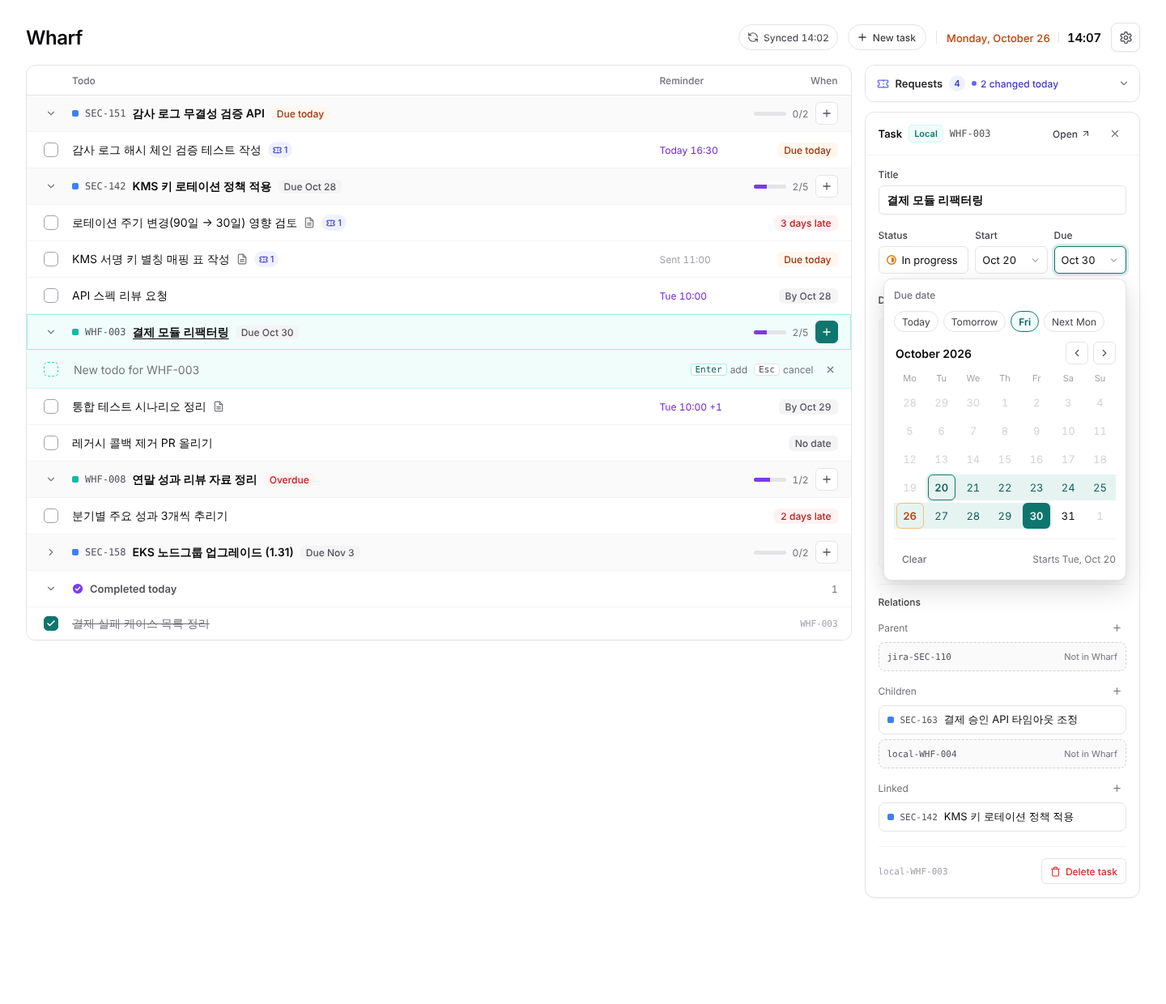
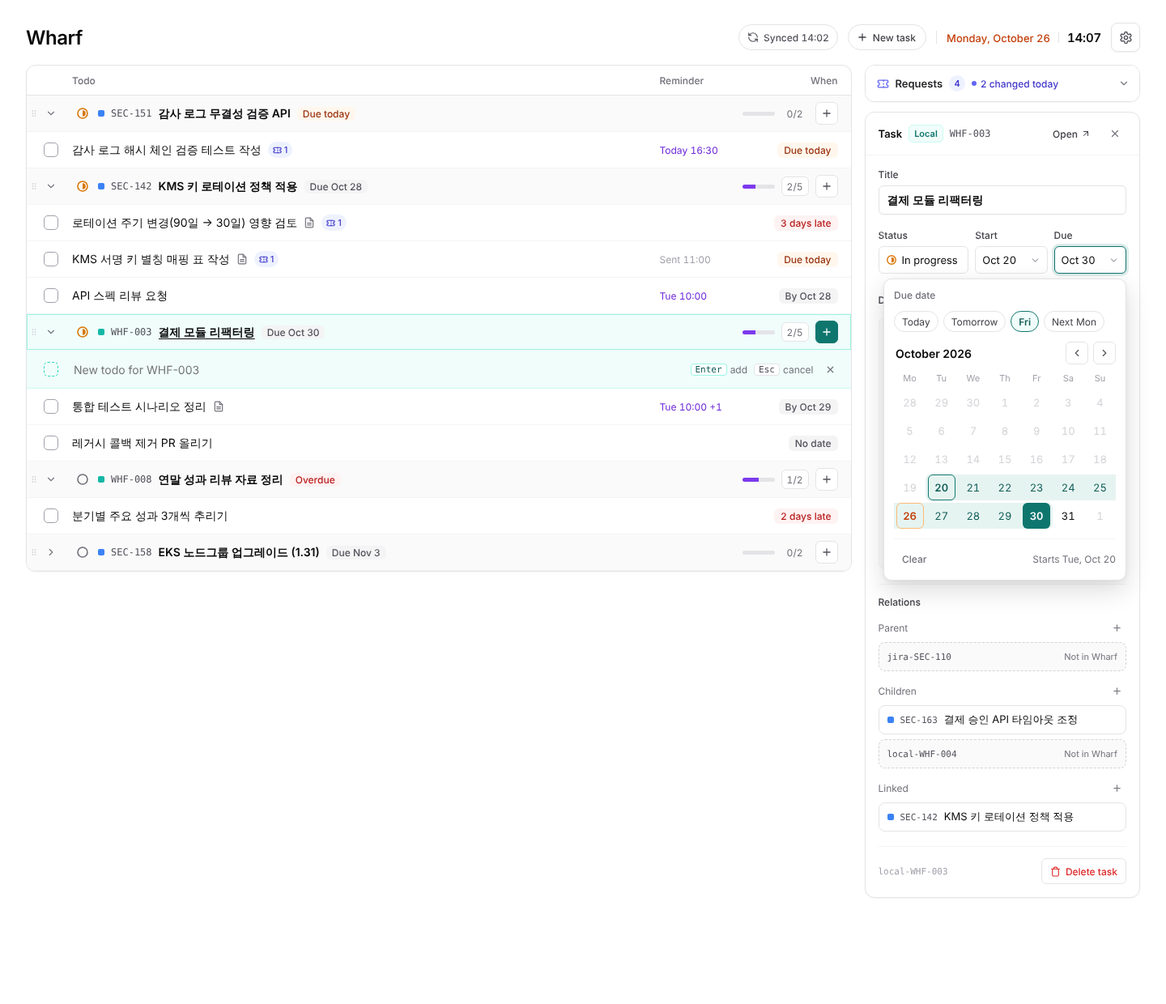
docs: update design

diff --git a/docs/design/boards/TodayFinal.dc.html b/docs/design/boards/TodayFinal.dc.html
@@ -61,20 +61,33 @@ a{color:#0f766e}a:hover{color:#115e59}
           </div>
 
           <sc-for list="{{groups}}" as="g" hint-placeholder-count="4">
-            <div style="display: grid; grid-template-columns: 28px minmax(0, 1fr) auto; align-items: center; gap: 12px; min-height: 44px; padding: 0 16px; border-bottom: 1px solid #f4f4f5; background: {{g.headBg}}; box-shadow: {{g.headRing}}">
+            <div draggable="true" onDragStart="{{g.dragStart}}" onDragOver="{{g.dragOver}}" onDrop="{{g.drop}}" onDragEnd="{{dragEnd}}" style="position: relative; display: grid; grid-template-columns: 28px minmax(0, 1fr) auto; align-items: center; gap: 12px; min-height: 44px; padding: 0 16px; border-bottom: 1px solid #f4f4f5; background: {{g.headBg}}; box-shadow: {{g.headRing}}; opacity: {{g.opacity}}">
+              <span title="Drag to reorder" aria-hidden="true" style="position: absolute; left: 3px; top: 50%; margin-top: -6px; width: 12px; height: 12px; display: flex; color: #c4c4cc; cursor: grab"><svg width="12" height="12" viewBox="0 0 24 24" fill="currentColor" aria-hidden="true"><circle cx="9" cy="6" r="1.6"></circle><circle cx="15" cy="6" r="1.6"></circle><circle cx="9" cy="12" r="1.6"></circle><circle cx="15" cy="12" r="1.6"></circle><circle cx="9" cy="18" r="1.6"></circle><circle cx="15" cy="18" r="1.6"></circle></svg></span>
               <button type="button" onClick="{{g.toggle}}" aria-expanded="{{g.open}}" aria-label="Collapse or expand {{g.key}}" style="width: 28px; height: 28px; display: flex; align-items: center; justify-content: center; padding: 0; border: none; border-radius: 6px; background: transparent; cursor: pointer">
                 <sc-if value="{{g.open}}" hint-placeholder-val="{{ true }}"><svg width="14" height="14" viewBox="0 0 24 24" fill="none" stroke="#71717a" stroke-width="2" stroke-linecap="round" aria-hidden="true"><path d="m6 9 6 6 6-6"></path></svg></sc-if>
                 <sc-if value="{{g.closed}}" hint-placeholder-val="{{ false }}"><svg width="14" height="14" viewBox="0 0 24 24" fill="none" stroke="#71717a" stroke-width="2" stroke-linecap="round" aria-hidden="true"><path d="m9 6 6 6-6 6"></path></svg></sc-if>
               </button>
-              <button type="button" onClick="{{g.selectTask}}" aria-pressed="{{g.taskSelected}}" title="Show task details" style="min-width: 0; height: 42px; display: flex; align-items: center; gap: 8px; padding: 0; border: none; background: transparent; font: inherit; text-align: left; cursor: pointer; color: #09090b">
+              <div style="min-width: 0; display: flex; align-items: center; gap: 6px">
+                <div style="position: relative; flex-shrink: 0">
+                  <button type="button" onClick="{{g.statusToggle}}" disabled="{{g.jira}}" aria-haspopup="menu" aria-expanded="{{g.statusOpen}}" aria-label="Status: {{g.statusLabel}}" title="{{g.statusTip}}" style="width: 26px; height: 26px; display: flex; align-items: center; justify-content: center; padding: 0; border: 1px solid {{g.statusBorder}}; border-radius: 6px; background: {{g.statusBg}}; cursor: {{g.statusCursor}}"><sc-if value="{{g.stTodo}}" hint-placeholder-val="{{ false }}"><svg width="16" height="16" viewBox="0 0 16 16" fill="none" aria-hidden="true" style="flex-shrink: 0"><circle cx="8" cy="8" r="6" stroke="#71717a" stroke-width="1.6"></circle></svg></sc-if><sc-if value="{{g.stProg}}" hint-placeholder-val="{{ true }}"><svg width="16" height="16" viewBox="0 0 16 16" fill="none" aria-hidden="true" style="flex-shrink: 0"><circle cx="8" cy="8" r="6" stroke="#d97706" stroke-width="1.6"></circle><path d="M8 4.2a3.8 3.8 0 0 1 0 7.6Z" fill="#d97706"></path></svg></sc-if><sc-if value="{{g.stDone}}" hint-placeholder-val="{{ false }}"><svg width="16" height="16" viewBox="0 0 16 16" fill="none" aria-hidden="true" style="flex-shrink: 0"><circle cx="8" cy="8" r="7" fill="#7c3aed"></circle><path d="m5 8.2 2 2 4-4.2" stroke="#ffffff" stroke-width="1.6" stroke-linecap="round" stroke-linejoin="round"></path></svg></sc-if><sc-if value="{{g.stCanceled}}" hint-placeholder-val="{{ false }}"><svg width="16" height="16" viewBox="0 0 16 16" fill="none" aria-hidden="true" style="flex-shrink: 0"><circle cx="8" cy="8" r="7" fill="#a1a1aa"></circle><path d="m5.6 5.6 4.8 4.8M10.4 5.6l-4.8 4.8" stroke="#ffffff" stroke-width="1.6" stroke-linecap="round"></path></svg></sc-if></button>
+                  <sc-if value="{{g.statusOpen}}" hint-placeholder-val="{{ false }}">
+                    <div role="menu" aria-label="Task status" style="position: absolute; top: 30px; left: 0; z-index: 45; width: 176px; box-sizing: border-box; padding: 4px; background: #ffffff; border: 1px solid #e4e4e7; border-radius: 8px; box-shadow: 0 12px 32px rgba(0,0,0,0.14), 0 2px 6px rgba(0,0,0,0.06); display: flex; flex-direction: column; gap: 1px">
+                      <sc-for list="{{g.statusItems}}" as="si" hint-placeholder-count="4">
+                        <button type="button" role="menuitemradio" aria-checked="{{si.current}}" onClick="{{si.pick}}" style="height: 32px; display: flex; align-items: center; gap: 8px; padding: 0 8px; border: none; border-radius: 6px; background: {{si.bg}}; font: inherit; font-size: 13px; color: #09090b; text-align: left; cursor: pointer"><sc-if value="{{si.stTodo}}" hint-placeholder-val="{{ false }}"><svg width="14" height="14" viewBox="0 0 16 16" fill="none" aria-hidden="true" style="flex-shrink: 0"><circle cx="8" cy="8" r="6" stroke="#71717a" stroke-width="1.6"></circle></svg></sc-if><sc-if value="{{si.stProg}}" hint-placeholder-val="{{ true }}"><svg width="14" height="14" viewBox="0 0 16 16" fill="none" aria-hidden="true" style="flex-shrink: 0"><circle cx="8" cy="8" r="6" stroke="#d97706" stroke-width="1.6"></circle><path d="M8 4.2a3.8 3.8 0 0 1 0 7.6Z" fill="#d97706"></path></svg></sc-if><sc-if value="{{si.stDone}}" hint-placeholder-val="{{ false }}"><svg width="14" height="14" viewBox="0 0 16 16" fill="none" aria-hidden="true" style="flex-shrink: 0"><circle cx="8" cy="8" r="7" fill="#7c3aed"></circle><path d="m5 8.2 2 2 4-4.2" stroke="#ffffff" stroke-width="1.6" stroke-linecap="round" stroke-linejoin="round"></path></svg></sc-if><sc-if value="{{si.stCanceled}}" hint-placeholder-val="{{ false }}"><svg width="14" height="14" viewBox="0 0 16 16" fill="none" aria-hidden="true" style="flex-shrink: 0"><circle cx="8" cy="8" r="7" fill="#a1a1aa"></circle><path d="m5.6 5.6 4.8 4.8M10.4 5.6l-4.8 4.8" stroke="#ffffff" stroke-width="1.6" stroke-linecap="round"></path></svg></sc-if><span style="flex: 1">{{si.label}}</span><sc-if value="{{si.current}}" hint-placeholder-val="{{ false }}"><span style="display: flex; color: #0f766e"><svg width="12" height="12" viewBox="0 0 24 24" fill="none" stroke="currentColor" stroke-width="3" stroke-linecap="round" stroke-linejoin="round" aria-hidden="true"><path d="M20 6 9 17l-5-5"></path></svg></span></sc-if></button>
+                      </sc-for>
+                    </div>
+                  </sc-if>
+                </div>
+                <button type="button" onClick="{{g.selectTask}}" aria-pressed="{{g.taskSelected}}" title="Show task details" style="flex: 1; min-width: 0; height: 42px; display: flex; align-items: center; gap: 8px; padding: 0; border: none; background: transparent; font: inherit; text-align: left; cursor: pointer; color: #09090b">
                 <span style="width: 8px; height: 8px; flex-shrink: 0; border-radius: 2px; background: {{g.originColor}}"></span>
                 <span style="font-family: 'Geist Mono', ui-monospace, monospace; font-size: 12px; color: #52525b; flex-shrink: 0">{{g.key}}</span>
-                <span style="min-width: 0; font-size: 14px; font-weight: 600; white-space: nowrap; overflow: hidden; text-overflow: ellipsis; text-decoration: {{g.titleDeco}}; text-underline-offset: 3px">{{g.title}}</span>
+                <span style="min-width: 0; font-size: 14px; font-weight: 600; white-space: nowrap; overflow: hidden; text-overflow: ellipsis; color: {{g.titleColor}}; text-decoration: {{g.titleDeco}}; text-underline-offset: 3px">{{g.title}}</span>
                 <span style="flex-shrink: 0; font-size: 12px; font-weight: 500; color: {{g.dueColor}}; background: {{g.dueBg}}; border-radius: 6px; padding: 1px 7px">{{g.due}}</span>
               </button>
+              </div>
               <span style="display: flex; align-items: center; gap: 8px; font-size: 12px; color: #71717a; font-variant-numeric: tabular-nums">
                 <span style="width: 40px; height: 5px; border-radius: 9999px; background: #e4e4e7; overflow: hidden; display: flex"><span style="width: {{g.pct}}%; background: #7c3aed"></span></span>
-                <span>{{g.progress}}</span>
+                <button type="button" onClick="{{g.toggleDone}}" aria-pressed="{{g.doneOpen}}" title="{{g.doneTip}}" style="height: 24px; display: flex; align-items: center; gap: 4px; padding: 0 6px; border: 1px solid {{g.doneBorder}}; border-radius: 6px; background: {{g.doneBg}}; font: inherit; font-size: 12px; color: {{g.doneColor}}; font-variant-numeric: tabular-nums; cursor: {{g.doneCursor}}">{{g.progress}}</button>
                 <button type="button" onClick="{{g.add}}" aria-label="Add todo to {{g.key}}" title="Add todo to {{g.key}}" style="width: 28px; height: 28px; display: flex; align-items: center; justify-content: center; padding: 0; border: 1px solid {{g.addBorder}}; border-radius: 6px; background: {{g.addBg}}; color: {{g.addColor}}; cursor: pointer">
                   <svg width="14" height="14" viewBox="0 0 24 24" fill="none" stroke="currentColor" stroke-width="2.2" stroke-linecap="round" aria-hidden="true"><path d="M12 5v14"></path><path d="M5 12h14"></path></svg>
                 </button>
@@ -96,12 +109,12 @@ a{color:#0f766e}a:hover{color:#115e59}
                 </div>
               </sc-if>
               <sc-for list="{{g.items}}" as="t" hint-placeholder-count="2">
-                <div style="display: grid; grid-template-columns: 28px minmax(0, 1fr) 104px 104px; align-items: center; gap: 12px; min-height: 44px; padding: 0 16px; border-bottom: 1px solid #f4f4f5; background: {{t.rowBg}}; box-shadow: {{t.rowRing}}">
+                <div style="display: grid; grid-template-columns: 28px minmax(0, 1fr) 104px 104px; align-items: center; gap: 12px; min-height: 44px; padding: 0 16px; border-bottom: 1px solid #f4f4f5; background: {{t.rowBg}}; box-shadow: {{t.rowRing}}; opacity: {{t.rowOpacity}}">
                   <span style="display: flex; justify-content: center">
-                    <button type="button" role="checkbox" aria-checked="false" aria-label="{{t.text}}" onClick="{{t.toggle}}" style="width: 18px; height: 18px; padding: 0; border-radius: 5px; border: 1.5px solid #a1a1aa; background: #ffffff; cursor: pointer"></button>
+                    <button type="button" role="checkbox" aria-checked="{{t.checked}}" aria-label="{{t.text}}" onClick="{{t.toggle}}" style="width: 18px; height: 18px; display: flex; align-items: center; justify-content: center; padding: 0; border-radius: 5px; border: 1.5px solid {{t.boxBorder}}; background: {{t.boxBg}}; color: #ffffff; cursor: pointer"><sc-if value="{{t.checked}}" hint-placeholder-val="{{ false }}"><svg width="12" height="12" viewBox="0 0 24 24" fill="none" stroke="currentColor" stroke-width="3" stroke-linecap="round" stroke-linejoin="round" aria-hidden="true"><path d="M20 6 9 17l-5-5"></path></svg></sc-if></button>
                   </span>
-                  <button type="button" onClick="{{t.select}}" aria-pressed="{{t.selected}}" style="min-width: 0; height: 42px; display: flex; align-items: center; gap: 8px; padding: 0; border: none; background: transparent; font: inherit; font-size: 14px; font-weight: {{t.weight}}; color: #09090b; text-align: left; cursor: pointer">
-                    <span style="min-width: 0; white-space: nowrap; overflow: hidden; text-overflow: ellipsis">{{t.text}}</span>
+                  <button type="button" onClick="{{t.select}}" aria-pressed="{{t.selected}}" style="min-width: 0; height: 42px; display: flex; align-items: center; gap: 8px; padding: 0; border: none; background: transparent; font: inherit; font-size: 14px; font-weight: {{t.weight}}; color: {{t.textColor}}; text-align: left; cursor: pointer">
+                    <span style="min-width: 0; white-space: nowrap; overflow: hidden; text-overflow: ellipsis; text-decoration: {{t.deco}}">{{t.text}}</span>
                     <sc-if value="{{t.hasNote}}" hint-placeholder-val="{{ false }}">
                       <svg width="14" height="14" viewBox="0 0 24 24" fill="none" stroke="#71717a" stroke-width="2" stroke-linecap="round" stroke-linejoin="round" role="img" aria-label="Has a note" style="flex-shrink: 0"><path d="M14 2H6a2 2 0 0 0-2 2v16a2 2 0 0 0 2 2h12a2 2 0 0 0 2-2V8z"></path><path d="M14 2v6h6"></path><path d="M16 13H8"></path><path d="M16 17H8"></path></svg>
                     </sc-if>
@@ -117,33 +130,14 @@ a{color:#0f766e}a:hover{color:#115e59}
             </sc-if>
           </sc-for>
 
+          <sc-if value="{{dragging}}" hint-placeholder-val="{{ false }}">
+            <div onDragOver="{{dragOverEnd}}" onDrop="{{dropEnd}}" style="height: 36px; margin: 6px 16px; box-sizing: border-box; display: flex; align-items: center; justify-content: center; border: 1px dashed {{endBorder}}; border-radius: 8px; background: {{endBg}}; font-size: 12px; color: #71717a">Drop here to move to the end</div>
+          </sc-if>
 
           <sc-if value="{{empty}}" hint-placeholder-val="{{ false }}">
             <p style="margin: 0; padding: 40px 16px; text-align: center; font-size: 14px; color: #71717a">All clear for this filter.</p>
           </sc-if>
 
-          <button type="button" onClick="{{toggleCompleted}}" aria-expanded="{{showCompleted}}" style="width: 100%; display: grid; grid-template-columns: 28px minmax(0, 1fr) auto; align-items: center; gap: 12px; min-height: 44px; padding: 0 16px; border: none; background: #ffffff; font: inherit; text-align: left; cursor: pointer; color: #52525b">
-            <span style="display: flex; justify-content: center">
-              <sc-if value="{{showCompleted}}" hint-placeholder-val="{{ false }}"><svg width="14" height="14" viewBox="0 0 24 24" fill="none" stroke="#71717a" stroke-width="2" stroke-linecap="round" aria-hidden="true"><path d="m6 9 6 6 6-6"></path></svg></sc-if>
-              <sc-if value="{{hideCompleted}}" hint-placeholder-val="{{ true }}"><svg width="14" height="14" viewBox="0 0 24 24" fill="none" stroke="#71717a" stroke-width="2" stroke-linecap="round" aria-hidden="true"><path d="m9 6 6 6-6 6"></path></svg></sc-if>
-            </span>
-            <span style="display: flex; align-items: center; gap: 8px; font-size: 13px; font-weight: 600">
-              <svg width="14" height="14" viewBox="0 0 16 16" fill="none" aria-hidden="true"><circle cx="8" cy="8" r="7" fill="#7c3aed"></circle><path d="m5 8.2 2 2 4-4.2" stroke="#ffffff" stroke-width="1.6" stroke-linecap="round" stroke-linejoin="round"></path></svg>
-              Completed today
-            </span>
-            <span style="font-size: 12px; color: #71717a; font-variant-numeric: tabular-nums">{{completedCount}}</span>
-          </button>
-          <sc-if value="{{showCompleted}}" hint-placeholder-val="{{ false }}">
-            <sc-for list="{{completed}}" as="t" hint-placeholder-count="1">
-              <div style="display: grid; grid-template-columns: 28px minmax(0, 1fr) auto; align-items: center; gap: 12px; min-height: 40px; padding: 0 16px; border-top: 1px solid #f4f4f5; background: {{t.rowBg}}">
-                <span style="display: flex; justify-content: center">
-                  <button type="button" role="checkbox" aria-checked="true" aria-label="{{t.text}}" onClick="{{t.toggle}}" style="width: 18px; height: 18px; display: flex; align-items: center; justify-content: center; padding: 0; border-radius: 5px; border: 1.5px solid #0f766e; background: #0f766e; cursor: pointer"><svg width="12" height="12" viewBox="0 0 24 24" fill="none" stroke="#ffffff" stroke-width="3.2" stroke-linecap="round" stroke-linejoin="round" aria-hidden="true"><path d="M20 6 9 17l-5-5"></path></svg></button>
-                </span>
-                <button type="button" onClick="{{t.select}}" style="min-width: 0; height: 38px; padding: 0; border: none; background: transparent; font: inherit; font-size: 14px; color: #71717a; text-decoration: line-through; text-align: left; cursor: pointer; white-space: nowrap; overflow: hidden; text-overflow: ellipsis">{{t.text}}</button>
-                <span style="font-family: 'Geist Mono', ui-monospace, monospace; font-size: 11px; color: #a1a1aa">{{t.key}}</span>
-              </div>
-            </sc-for>
-          </sc-if>
         </div>
       </section>
 
@@ -339,6 +333,7 @@ a{color:#0f766e}a:hover{color:#115e59}
                 <button type="button" disabled="{{ti.jira}}" style="height: 34px; box-sizing: border-box; display: flex; align-items: center; gap: 6px; padding: 0 8px; border: 1px solid {{ti.fieldBorder}}; border-radius: 6px; background: {{ti.fieldBg}}; font: inherit; font-size: 13px; color: #09090b; white-space: nowrap; overflow: hidden; cursor: {{ti.cursor}}">
                   <sc-if value="{{ti.prog}}" hint-placeholder-val="{{ true }}"><svg width="14" height="14" viewBox="0 0 16 16" fill="none" aria-hidden="true" style="flex-shrink: 0"><circle cx="8" cy="8" r="6" stroke="#d97706" stroke-width="1.6"></circle><path d="M8 4.2a3.8 3.8 0 0 1 0 7.6Z" fill="#d97706"></path></svg></sc-if>
                   <sc-if value="{{ti.todo}}" hint-placeholder-val="{{ false }}"><svg width="14" height="14" viewBox="0 0 16 16" fill="none" aria-hidden="true" style="flex-shrink: 0"><circle cx="8" cy="8" r="6" stroke="#71717a" stroke-width="1.6"></circle></svg></sc-if>
+                  <sc-if value="{{ti.done}}" hint-placeholder-val="{{ false }}"><svg width="14" height="14" viewBox="0 0 16 16" fill="none" aria-hidden="true" style="flex-shrink: 0"><circle cx="8" cy="8" r="7" fill="#7c3aed"></circle><path d="m5 8.2 2 2 4-4.2" stroke="#ffffff" stroke-width="1.6" stroke-linecap="round" stroke-linejoin="round"></path></svg></sc-if><sc-if value="{{ti.canceled}}" hint-placeholder-val="{{ false }}"><svg width="14" height="14" viewBox="0 0 16 16" fill="none" aria-hidden="true" style="flex-shrink: 0"><circle cx="8" cy="8" r="7" fill="#a1a1aa"></circle><path d="m5.6 5.6 4.8 4.8M10.4 5.6l-4.8 4.8" stroke="#ffffff" stroke-width="1.6" stroke-linecap="round"></path></svg></sc-if>
                   {{ti.status}}
                 </button>
               </div>
@@ -542,6 +537,9 @@ class Component extends DCLogic {
     links: { 'CIS-12345': [21, 22], 'CIS-12388': [41], 'CIS-12402': [51], 'CIS-12291': [] },
     // Quick actions in the header: Atlassian Cloud sync and new local task
     sync: 'idle', lastSync: '14:02', creatingTask: false, newTitle: '', newTasks: [],
+    // Task status overrides (local only), task order (Wharf-only, drag and drop), done todos visibility
+    tstatus: {}, statusMenu: null, taskOrder: null, dragKey: null, overKey: null,
+    doneOpen: {}, recentDone: {},
     // Date / reminder edits (popover pickers). pop: 'start' | 'end' | 'tstart' | 'tdue' | 'rem-new' | 'rem-<i>'
     dates: {}, tdates: {}, rems: {}, pop: null, pkMonth: 0, remDay: null, remTime: '09:00' };
 
@@ -737,7 +735,12 @@ class Component extends DCLogic {
       o.remTip = sent.length ? sent.length + ' sent' + (up.length ? ', ' + up.length + ' upcoming' : '') : '';
       return o;
     }
-    function metaOf(key) { return Object.assign({}, META[key], (self.state.tdates || {})[key] || {}); }
+    function metaOf(key) { var m = Object.assign({}, META[key], (self.state.tdates || {})[key] || {}); var st = (self.state.tstatus || {})[key]; if (st) m.st = st; return m; }
+    var ST = { todo: 'Todo', prog: 'In progress', done: 'Done', canceled: 'Canceled' };
+    function stFlags(st) { return { stTodo: st === 'todo', stProg: st === 'prog', stDone: st === 'done', stCanceled: st === 'canceled' }; }
+    // When a todo was completed (design data; Today = Oct 26)
+    var DONE_AT = { 24: 20, 25: 22, 11: 22, 12: 26, 32: 21 };
+    function doneLabel(id) { var d = DONE_AT[id]; return d === TODAY || d == null ? 'Done today' : 'Done ' + dateText(d); }
     function dueInfo(d) {
       if (d == null) return { label: 'No due date', tone: null };
       if (d < TODAY) return { label: 'Overdue', tone: 'over' };
@@ -751,7 +754,12 @@ class Component extends DCLogic {
       self.setState(Object.assign({ pop: on ? null : name, pkMonth: month || 0 }, extra || {}));
     }; }
     function closePop() { self.setState({ pop: null }); }
-    function toggleFn(id) { return function () { var n = Object.assign({}, self.state.done); n[id] = !self.state.done[id]; self.setState({ done: n }); }; }
+    // Checking a todo keeps it in place (struck through) for this session instead of making it jump away.
+    function toggleFn(id) { return function () {
+      var n = Object.assign({}, self.state.done), r = Object.assign({}, self.state.recentDone);
+      n[id] = !self.state.done[id]; if (n[id]) r[id] = true; else delete r[id];
+      self.setState({ done: n, recentDone: r });
+    }; }
     function selectFn(id) { return function () { self.setState({ sel: id, selKey: null, selReq: null, picker: null, pop: null }); }; }
     function selectTaskFn(key) { return function () { self.setState({ selKey: key, sel: null, selReq: null, picker: null, pop: null }); }; }
     function selectReqFn(key) { return function () { self.setState({ selReq: key, sel: null, selKey: null, picker: null, pop: null }); }; }
@@ -825,6 +833,18 @@ class Component extends DCLogic {
         pick: function () { self.setState({ tab: tb.id }); } };
     });
 
+    var order = (s.taskOrder || []).slice();
+    TASKS.forEach(function (k) { if (order.indexOf(k.key) < 0) order.push(k.key); });
+    TASKS.sort(function (a, b) { return order.indexOf(a.key) - order.indexOf(b.key); });
+    function moveTask(from, to) {
+      if (!from || from === to) { self.setState({ dragKey: null, overKey: null }); return; }
+      var o = order.filter(function (x) { return x !== from; });
+      var at = to == null ? o.length : o.indexOf(to);
+      o.splice(at, 0, from);
+      self.setState({ taskOrder: o, dragKey: null, overKey: null });
+    }
+    var recent = s.recentDone || {}, doneOpenMap = s.doneOpen || {}, doneTotal = 0;
+    function doneVisible(key) { return !!doneOpenMap[key]; }
     var chips = [], groups = [], completed = [], selTask = null, selTodo = null;
     TASKS.forEach(function (k) {
       var dc = 0, openToday = 0, hasOver = false;
@@ -842,12 +862,27 @@ class Component extends DCLogic {
         pick: function () { self.setState({ task: on ? null : k.key }); }
       });
       if (pickedTask && pickedTask !== k.key) return;
-      var items = k.todos.filter(function (t) {
-        if (!t.today || done[t.id]) return false;
+      var dv = doneVisible(k.key);
+      k.todos.forEach(function (t) { if (done[t.id]) doneTotal++; });
+      var openList = k.todos.filter(function (t) {
+        if (done[t.id]) return !!recent[t.id];
+        if (!t.today) return false;
         return tab === 'all' || eff(t).kind === tab;
-      }).map(function (t0) {
-        var t = eff(t0), isSel = s.sel === t.id;
+      });
+      var doneList = dv ? k.todos.filter(function (t) { return done[t.id] && !recent[t.id]; }) : [];
+      var items = openList.concat(doneList).map(function (t0) {
+        var t = eff(t0), isSel = s.sel === t.id, c = !!done[t.id];
+        if (c) return {
+          text: t.text, checked: true, boxBorder: '#0f766e', boxBg: '#0f766e', textColor: '#71717a', deco: 'line-through',
+          when: doneLabel(t.id), whenColor: DONE_AT[t.id] === TODAY || recent[t.id] ? '#6d28d9' : '#71717a', whenBg: DONE_AT[t.id] === TODAY || recent[t.id] ? '#f5f3ff' : '#f4f4f5',
+          rem: '', remColor: '#a1a1aa', remTip: '', selected: isSel, weight: isSel ? '600' : '400', hasNote: !!t.note,
+          hasReqs: reqsForTodo(t.id).length > 0, reqCount: reqsForTodo(t.id).length,
+          reqTitle: reqsForTodo(t.id).map(function (r) { return r.key + ' ' + r.title; }).join('\n'),
+          rowBg: isSel ? '#f0fdfa' : '#ffffff', rowRing: isSel ? 'inset 0 0 0 1px #99f6e4' : 'none',
+          toggle: toggleFn(t.id), select: selectFn(t.id), rowOpacity: s.dragKey === k.key ? '0.45' : '1'
+        };
         return {
+          checked: false, boxBorder: '#a1a1aa', boxBg: '#ffffff', textColor: '#09090b', deco: 'none', rowOpacity: s.dragKey === k.key ? '0.45' : '1',
           text: t.text, when: whenOf(t), whenColor: TONE[t.kind].c, whenBg: TONE[t.kind].bg, rem: t.rem || '', remColor: t.remColor, remTip: t.remTip,
           selected: isSel, weight: isSel ? '600' : '400', hasNote: !!t.note,
           hasReqs: reqsForTodo(t.id).length > 0, reqCount: reqsForTodo(t.id).length,
@@ -859,9 +894,29 @@ class Component extends DCLogic {
       if (!items.length && !k.fresh) return;
       var isOpen = !closed[k.key];
       var isTaskSel = s.selKey === k.key;
-      var gdue = dueInfo(metaOf(k.key).due);
-      groups.push({
-        taskSelected: isTaskSel, headBg: isTaskSel ? '#f0fdfa' : '#fafafa', headRing: isTaskSel ? 'inset 0 0 0 1px #99f6e4' : 'none',
+      var gm = metaOf(k.key), gdue = dueInfo(gm.due), isJira = k.origin === 'jira', gst = gm.st || 'todo';
+      var dropHere = s.dragKey && s.dragKey !== k.key && s.overKey === k.key, dragged = s.dragKey === k.key;
+      var ring = isTaskSel ? 'inset 0 0 0 1px #99f6e4' : 'none';
+      if (dropHere) ring = 'inset 0 2px 0 #0f766e' + (isTaskSel ? ', inset 0 0 0 1px #99f6e4' : '');
+      var menuOpen = !isJira && s.statusMenu === k.key, ndone = k.todos.filter(function (t) { return done[t.id]; }).length;
+      groups.push(Object.assign(stFlags(gst), {
+        jira: isJira, statusLabel: ST[gst], statusOpen: menuOpen,
+        statusTip: isJira ? ST[gst] + ' · from Jira' : ST[gst] + ' · change status',
+        statusBorder: menuOpen ? '#0f766e' : 'transparent', statusBg: menuOpen ? '#f0fdfa' : 'transparent', statusCursor: isJira ? 'default' : 'pointer',
+        statusToggle: isJira ? function () {} : function () { self.setState({ statusMenu: self.state.statusMenu === k.key ? null : k.key }); },
+        statusItems: ['todo', 'prog', 'done', 'canceled'].map(function (v) {
+          return Object.assign(stFlags(v), { label: ST[v], current: v === gst, bg: v === gst ? '#f4f4f5' : 'transparent',
+            pick: function () { var n = Object.assign({}, self.state.tstatus); n[k.key] = v; self.setState({ tstatus: n, statusMenu: null }); } });
+        }),
+        titleColor: gst === 'done' || gst === 'canceled' ? '#71717a' : '#09090b',
+        opacity: dragged ? '0.45' : '1',
+        dragStart: function (e) { try { e.dataTransfer.effectAllowed = 'move'; e.dataTransfer.setData('text/plain', k.key); } catch (x) {} self.setState({ dragKey: k.key, statusMenu: null }); },
+        dragOver: function (e) { if (e && e.preventDefault) e.preventDefault(); if (self.state.overKey !== k.key) self.setState({ overKey: k.key }); },
+        drop: function (e) { if (e && e.preventDefault) e.preventDefault(); moveTask(self.state.dragKey, k.key); },
+        doneOpen: dv, doneTip: dv ? 'Hide done todos' : (ndone ? 'Show ' + ndone + ' done todo' + (ndone > 1 ? 's' : '') : 'No done todos yet'),
+        doneBorder: dv ? '#ddd6fe' : (ndone ? '#e4e4e7' : 'transparent'), doneBg: dv ? '#f5f3ff' : (ndone ? '#ffffff' : 'transparent'), doneColor: dv ? '#5b21b6' : '#71717a', doneCursor: ndone ? 'pointer' : 'default',
+        toggleDone: function () { var n = Object.assign({}, self.state.doneOpen); n[k.key] = !dv; self.setState({ doneOpen: n }); },
+        taskSelected: isTaskSel, headBg: isTaskSel ? '#f0fdfa' : '#fafafa', headRing: ring,
         titleDeco: isTaskSel ? 'underline' : 'none',
         selectTask: selectTaskFn(k.key),
         key: k.key, title: k.title, originColor: ORIGIN[k.origin], due: gdue.label,
@@ -874,7 +929,7 @@ class Component extends DCLogic {
         addBg: s.adding === k.key ? '#0f766e' : '#ffffff', addBorder: s.adding === k.key ? '#0f766e' : '#e4e4e7', addColor: s.adding === k.key ? '#ffffff' : '#52525b',
         add: function () { var n = Object.assign({}, self.state.closed); n[k.key] = false; self.setState({ adding: k.key, closed: n }); },
         cancelAdd: function () { self.setState({ adding: null }); }
-      });
+      }));
     });
 
     var ins = { rems: [] };
@@ -955,7 +1010,7 @@ class Component extends DCLogic {
         jira: isJira, local: !isJira,
         origin: isJira ? 'Jira' : 'Local', originBg: isJira ? '#eff6ff' : '#f0fdfa', originBorder: isJira ? '#dbeafe' : '#ccfbf1', originText: isJira ? '#1d4ed8' : '#0f766e',
         href: isJira ? 'TaskJira.dc.html' : 'TaskLocal.dc.html',
-        prog: m.st === 'prog', todo: m.st === 'todo', status: m.st === 'prog' ? 'In progress' : 'Todo',
+        prog: m.st === 'prog', todo: m.st === 'todo', done: m.st === 'done', canceled: m.st === 'canceled', status: ST[m.st] || 'Todo',
         fieldBg: isJira ? '#fafafa' : '#ffffff', fieldBorder: isJira ? '#f4f4f5' : '#e4e4e7', cursor: isJira ? 'default' : 'pointer',
         start: m.start ? dateText(m.start) : 'Not set', startColor: m.start ? '#09090b' : '#a1a1aa',
         startBg: isJira ? '#fafafa' : '#ffffff', startBorder: pop === 'tstart' && !isJira ? '#0f766e' : (isJira ? '#f4f4f5' : '#e4e4e7'),
@@ -1045,6 +1100,10 @@ class Component extends DCLogic {
       allOn: all, allBg: all ? '#0f766e' : '#ffffff', allBorder: all ? '#0f766e' : '#e4e4e7', allColor: all ? '#ffffff' : '#09090b',
       pickAll: function () { self.setState({ task: null }); },
       completed: completed, completedCount: completed.length,
+      dragging: !!s.dragKey, endBorder: s.overKey === '__end' ? '#0f766e' : '#d4d4d8', endBg: s.overKey === '__end' ? '#f0fdfa' : '#fafafa',
+      dragOverEnd: function (e) { if (e && e.preventDefault) e.preventDefault(); if (self.state.overKey !== '__end') self.setState({ overKey: '__end' }); },
+      dropEnd: function (e) { if (e && e.preventDefault) e.preventDefault(); moveTask(self.state.dragKey, null); },
+      dragEnd: function () { if (self.state.dragKey) self.setState({ dragKey: null, overKey: null }); },
       showCompleted: !!s.showCompleted, hideCompleted: !s.showCompleted,
       sync: (function () {
         var st = s.sync || 'idle', busy = st === 'busy', failed = st === 'failed';

diff --git a/docs/design/DESIGN_HANDOFF.md b/docs/design/DESIGN_HANDOFF.md
@@ -66,10 +66,14 @@ URL 상태 제안 (디자인에는 없음, 구현 판단): `?todo=22`, `?task=WH
 ### Todos card (`screens/01`, `02`)
 - **컬럼:** `Todo` / `Reminder` / `When`.
 - **Task 그룹 행** (배경 `#fafafa`):
-  - 접기 chevron, origin 점(Jira 파랑 / Local teal), 키(mono), 제목
+  - 왼쪽 여백의 grip(⋮⋮), 접기 chevron, **상태 아이콘**, origin 점(Jira 파랑 / Local teal), 키(mono), 제목
+  - **상태 아이콘** (16px, 토큰 시트와 같은 모양): Todo(빈 원, gray) · In progress(반 채운 원, amber) · Done(violet 체크) · Canceled(gray ×). Done·Canceled Task는 제목이 gray로 흐려져.
+    - Local: 아이콘을 누르면 상태 메뉴(Todo / In progress / Done / Canceled, 현재 값에 체크)가 열려서 바로 바꿀 수 있어.
+    - Jira: 읽기 전용. 툴팁 `In progress · from Jira`, 눌리지 않아.
   - 제목을 누르면 Inspector에 Task가 열려. 선택되면 행이 teal 링으로 표시되고 제목에 밑줄.
   - 마감 태그: `Due today`(orange) / `Overdue`(red) / `Due Oct 28`(gray). Task의 due로 계산.
-  - 진행률: violet 바 + `2/5`
+  - 진행률: violet 바 + `2/5`. 숫자는 이 Task의 끝난 Todo를 펼치고 접는 토글 버튼이야. 끝난 Todo가 있으면 옅은 테두리가 보이고, 펼치면 violet 테두리·배경이 돼.
+  - **드래그 앤 드롭 순서 변경:** 그룹 헤더 행 전체를 잡고 끌어. 끄는 동안 그 그룹(헤더+Todo)이 흐려지고, 놓을 위치의 헤더 위에 teal 2px 선이 표시돼 (그 Task 앞으로 이동). 목록 맨 끝에는 끄는 동안에만 `Drop here to move to the end` 영역이 나타나. 순서는 Wharf에만 저장해 (Jira Task 포함). 키보드 대안으로 grip에 포커스 후 `⌥↑`/`⌥↓`를 권장해 (디자인에는 없음).
   - `+` 버튼: 그룹 바로 아래에 인라인 입력 행 `New todo for WHF-003`이 열려 (`Enter` 추가 · `Esc` 취소). 열려 있는 동안 `+`는 teal로 채워져.
 - **Todo 행:**
   - 체크박스, 텍스트(누르면 Inspector에 Todo)
@@ -78,7 +82,10 @@ URL 상태 제안 (디자인에는 없음, 구현 판단): `?todo=22`, `?task=WH
   - When pill: `N days late`(red) / `Due today`(orange) / `By Oct 28` / `Starts today` / `No date`(gray). Todo의 end(없으면 start)로 계산.
   - 선택된 행: 배경 `#f0fdfa` + inset 1px `#99f6e4` 링 (왼쪽 보더 강조는 쓰지 않음).
 - **Today에 나오는 Todo:** 디자인 데이터에서는 미완료 Todo 중 오늘 할 수 있는 것(기한 지난 것 포함)만 보여. 정확한 선정 규칙은 도메인 스펙을 따라.
-- **`Completed today` 섹션:** 접기 가능. 오늘 완료한 Todo가 취소선으로 표시되고, 오른쪽에 Task 키가 보여.
+- **끝난 Todo 보기** (`Completed today` 섹션은 없앴어):
+  - Todo를 체크하면 사라지지 않고 그 자리에 취소선 + 체크된 상태로 남아 (When에 violet `Done today`). 실수로 체크해도 바로 되돌릴 수 있고, 목록이 갑자기 움직이지 않아. 다음에 Today를 새로 열면 정리돼.
+  - **그룹별 토글:** 그룹 헤더의 `2/5`를 누르면 그 Task의 끝난 Todo가 그룹 아래쪽에 회색 취소선 행으로 붙어 (When에 `Done Oct 22` 회색, 오늘 끝낸 건 violet `Done today`). 다시 누르면 접혀. 기본은 접힌 상태야.
+  - 끝난 Todo도 체크를 풀면 다시 열린 Todo로 돌아가.
 
 ### Requests card (`screens/04`)
 - **헤더 버튼:** `Requests 4 · ● 2 changed today` + chevron. 누르면 카드가 그 자리에서 펼쳐져 (팝오버 아님).
@@ -289,7 +296,8 @@ URL 상태 제안 (디자인에는 없음, 구현 판단): `?todo=22`, `?task=WH
   - `note` (plain text, Wharf 전용)
   - `start_date`, `end_date` (날짜만)
   - `reminders[]`: `remind_at`(로컬 datetime) + 발송 여부(`sent_at` 등) → `Sent` 표시와 수정 불가 판단에 필요
-  - `position` (Task 안 정렬)
+  - `position` (Task 안 정렬), `completed_at` (`Done Oct 22` 표시와 정렬용)
+- **Task:** `position` (Today 그룹 순서, Wharf 전용, Jira Task 포함) · Local Task의 `status` 변경 API (Todo / In progress / Done / Canceled)
 - **Service Desk request**
   - 필드: `{ issue_key, title, status, created_at, status_at }`. status는 Open / Pending / In Progress / Security Review / Done / Cancel.
   - Today에는 Done·Cancel이 아닌 것만 보여.
@@ -343,3 +351,7 @@ URL 상태 제안 (디자인에는 없음, 구현 판단): `?todo=22`, `?task=WH
 | `17-today-sync-running` | 헤더 Sync 진행 중 + 로딩 토스트 |
 | `18-today-new-local-task` | 헤더 New task 팝오버 |
 | `19-today-local-task-created` | 새 Task 생성 직후 (Todo 입력 행 + Task Inspector) |
+| `20-today-task-done-expanded` | SEC-142의 `2/5`를 눌러 끝난 Todo를 펼친 상태 |
+| `21-today-task-status-menu` | Local Task 상태 메뉴 |
+| `22-today-drag-reorder` | Task 그룹 드래그 중 (드롭 위치 표시 + 끝 영역) |
+| `23-today-todo-just-checked` | 방금 체크한 Todo가 제자리에 남은 모습 |

diff --git a/README.md b/README.md
@@ -1,0 +1,83 @@
+# Wharf
+
+Go 백엔드 서버(`github.com/byron1st/wharf`)와 서버에 내장된 웹 앱(Vite + React)으로 구성된 로컬 도구입니다. 이 문서는 빌드 → 설정 파일 → 실행 순서로 Wharf를 띄우는 방법을 설명합니다.
+
+## 사전 준비
+
+- Go (`go.mod`의 `go` 버전 이상)
+- Node.js와 npm (웹 앱 빌드용)
+- `make`
+
+## 1. 빌드
+
+저장소 루트에서 실행합니다.
+
+```sh
+make build
+```
+
+`make build`는 먼저 웹 앱을 빌드(`npm ci` + `npm run build`, 결과는 `web/dist`)한 뒤, 이를 내장한 서버 바이너리를 저장소 루트에 `./wharf`로 생성합니다.
+
+바이너리 없이 소스에서 바로 실행하는 `make run`도 있지만, 웹 UI를 보려면 `make web`으로 `web/dist`를 먼저 만들어 두어야 합니다.
+
+## 2. 설정 파일
+
+설정 파일은 TOML이며, 모든 키가 선택 사항입니다. 파일이 없으면 모두 기본값으로 동작합니다. 알 수 없는 키는 거부됩니다.
+
+기본 위치는 `<os.UserConfigDir()>/wharf/config.toml`입니다.
+
+- macOS: `~/Library/Application Support/wharf/config.toml`
+- Linux: `~/.config/wharf/config.toml`
+
+다른 위치를 쓰려면 환경 변수 `WHARF_CONFIG`에 파일 경로를 지정합니다.
+
+예시 파일을 복사해서 시작합니다(macOS 기준).
+
+```sh
+mkdir -p "$HOME/Library/Application Support/wharf"
+cp config.example.toml "$HOME/Library/Application Support/wharf/config.toml"
+chmod 600 "$HOME/Library/Application Support/wharf/config.toml"
+```
+
+`config.example.toml`에는 Atlassian 키가 값이 채워진 상태로 들어 있으므로, 그대로 쓰지 말고 실제 값으로 바꾸거나 해당 세 줄을 지우세요.
+
+| 키 | 기본값 | 설명 |
+| --- | --- | --- |
+| `addr` | `127.0.0.1:8080` | 서버가 listen할 TCP 주소. 요청은 이 머신에서 오고 loopback 호스트(`localhost`, `127.0.0.1`, `[::1]`)를 가리켜야 하며, 그렇지 않으면 403입니다. |
+| `db_path` | `<UserConfigDir>/wharf/wharf.db` | SQLite 파일 경로. 디렉터리가 없으면 만들어집니다. |
+| `atlassian_site_url` | 없음 | Jira Cloud REST API 기본 URL(https만). Scoped API 토큰이면 `https://api.atlassian.com/ex/jira/{cloudId}`. |
+| `atlassian_email` | 없음 | Basic 인증에 쓸 Atlassian 계정 이메일. |
+| `atlassian_api_token` | 없음 | [API 토큰](https://id.atlassian.com/manage-profile/security/api-tokens). 평문으로 저장되므로 파일 권한을 `600`으로 두세요. |
+
+`atlassian_*` 세 키는 모두 설정하거나 모두 비워 두어야 합니다. 서버를 띄운 뒤 웹 앱의 Settings › Atlassian Cloud에서 저장해도 되며, 이때 해당 세 줄만 다시 쓰이고 주석과 다른 키는 유지됩니다.
+
+테스트 삼아 띄워보는 용도라면 설정 파일 없이도 시작할 수 있습니다.
+
+## 3. 실행
+
+빌드한 바이너리를 실행합니다.
+
+```sh
+./wharf
+```
+
+다른 설정 파일을 쓰려면:
+
+```sh
+WHARF_CONFIG=/path/to/config.toml ./wharf
+```
+
+정상적으로 시작되면 JSON 로그로 `server started`와 listen 주소가 출력됩니다.
+
+```json
+{"level":"INFO","msg":"server started","addr":"127.0.0.1:8080"}
+```
+
+브라우저에서 <http://localhost:8080>을 열면 웹 앱이 보이고, API는 `/api` 아래에 있습니다. 종료는 `Ctrl+C`(SIGINT/SIGTERM)입니다.
+
+### 참고
+
+- 첫 실행 때 DB 마이그레이션이 자동으로 적용됩니다.
+- 소스에서 바로 실행하려면 `make run`을 쓰세요(`go run ./cmd/wharf`).
+- 프런트엔드를 개발할 때는 `make run`으로 서버를 띄운 상태에서 `make web-dev`로 Vite 개발 서버를 함께 실행하세요.
+- 아직 첫 배포 전이라 스키마 변경이 `0001_initial_migration.sql`에 직접 반영됩니다. 이전 버전으로 만든 로컬 `wharf.db`에서 오류가 나면 파일을 삭제하고 다시 실행하세요.
